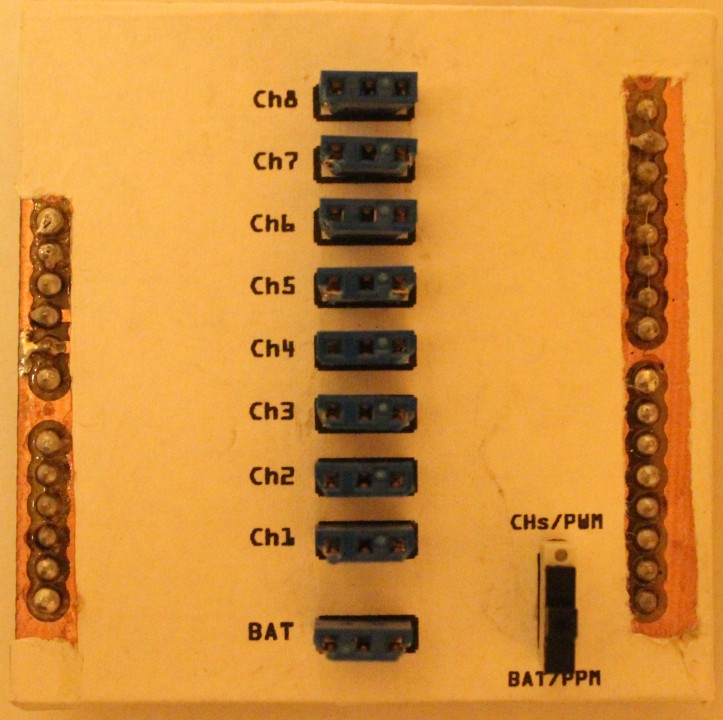
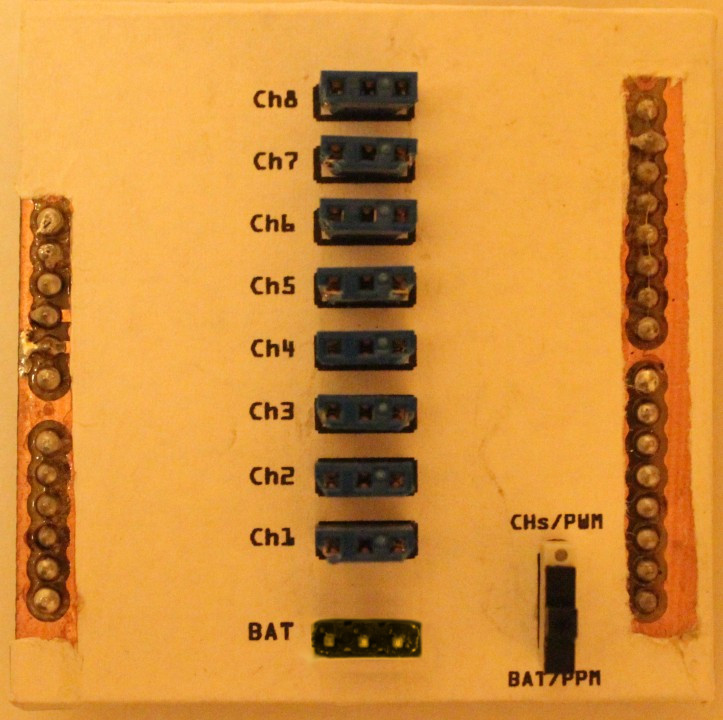
Corrected header type of BAT/PPM/DSC connector.

Changed region(s): [[0.426, 0.825, 0.6086, 0.9472]]

diff --git a/Hardware/RCReceiverShield/PCB_bom.html b/Hardware/RCReceiverShield/PCB_bom.html
@@ -43,8 +43,8 @@ td {
   <tbody>
   <tr>
     <td>BAT</td>
-    <td>Generic female header - 3 pins</td>
-    <td class="props">package THT; gender ♀; hole shape Square; pins 3; pin spacing 0.1in (2.54mm)</td>
+    <td>Generic male header - 3 pins</td>
+    <td class="props">package THT; gender ♂; pins 3; pin spacing 0.1in (2.54mm)</td>
 </tr><tr>
     <td>Ch1</td>
     <td>Generic female header - 3 pins</td>
@@ -78,25 +78,25 @@ td {
     <td>Generic female header - 3 pins</td>
     <td class="props">package THT; gender ♀; hole shape Square; pins 3; pin spacing 0.1in (2.54mm)</td>
 </tr><tr>
+    <td>J1</td>
+    <td>Generic male header - 6 pins</td>
+    <td class="props">package THT; gender ♂; pins 6; pin spacing 0.1in (2.54mm)</td>
+</tr><tr>
+    <td>J2</td>
+    <td>Generic male header - 6 pins</td>
+    <td class="props">package THT; gender ♂; pins 6; pin spacing 0.1in (2.54mm)</td>
+</tr><tr>
+    <td>J3</td>
+    <td>Generic male header - 8 pins</td>
+    <td class="props">package THT; gender ♂; pins 8; pin spacing 0.1in (2.54mm)</td>
+</tr><tr>
+    <td>J4</td>
+    <td>Generic male header - 8 pins</td>
+    <td class="props">package THT; gender ♂; pins 8; pin spacing 0.1in (2.54mm)</td>
+</tr><tr>
     <td>S1</td>
     <td>Toggle Switch</td>
     <td class="props">package THT; switching circuit SPDT</td>
-</tr><tr>
-    <td>J1</td>
-    <td>Generic female header - 6 pins</td>
-    <td class="props">package THT; form ♀ (female); pins 6; pin spacing 0.1in (2.54mm)</td>
-</tr><tr>
-    <td>J2</td>
-    <td>Generic female header - 6 pins</td>
-    <td class="props">package THT; form ♀ (female); pins 6; pin spacing 0.1in (2.54mm)</td>
-</tr><tr>
-    <td>J3</td>
-    <td>Generic female header - 8 pins</td>
-    <td class="props">package THT; form ♀ (female); pins 8; pin spacing 0.1in (2.54mm)</td>
-</tr><tr>
-    <td>J4</td>
-    <td>Generic female header - 8 pins</td>
-    <td class="props">package THT; form ♀ (female); pins 8; pin spacing 0.1in (2.54mm)</td>
 </tr>
   </tbody>
 </table>
@@ -116,16 +116,20 @@ td {
     <td class="props">package THT; gender ♀; hole shape Square; pins 3; pin spacing 0.1in (2.54mm)</td>
 </tr><tr>
     <td>1</td>
+    <td>Generic male header - 3 pins</td>
+    <td class="props">package THT; gender ♂; pins 3; pin spacing 0.1in (2.54mm)</td>
+</tr><tr>
+    <td>2</td>
+    <td>Generic male header - 6 pins</td>
+    <td class="props">package THT; gender ♂; pins 6; pin spacing 0.1in (2.54mm)</td>
+</tr><tr>
+    <td>2</td>
+    <td>Generic male header - 8 pins</td>
+    <td class="props">package THT; gender ♂; pins 8; pin spacing 0.1in (2.54mm)</td>
+</tr><tr>
+    <td>1</td>
     <td>Toggle Switch</td>
     <td class="props">package THT; switching circuit SPDT</td>
-</tr><tr>
-    <td>2</td>
-    <td>Generic female header - 6 pins</td>
-    <td class="props">package THT; form ♀ (female); pins 6; pin spacing 0.1in (2.54mm)</td>
-</tr><tr>
-    <td>2</td>
-    <td>Generic female header - 8 pins</td>
-    <td class="props">package THT; form ♀ (female); pins 8; pin spacing 0.1in (2.54mm)</td>
 </tr>
   </tbody>
 </table>
